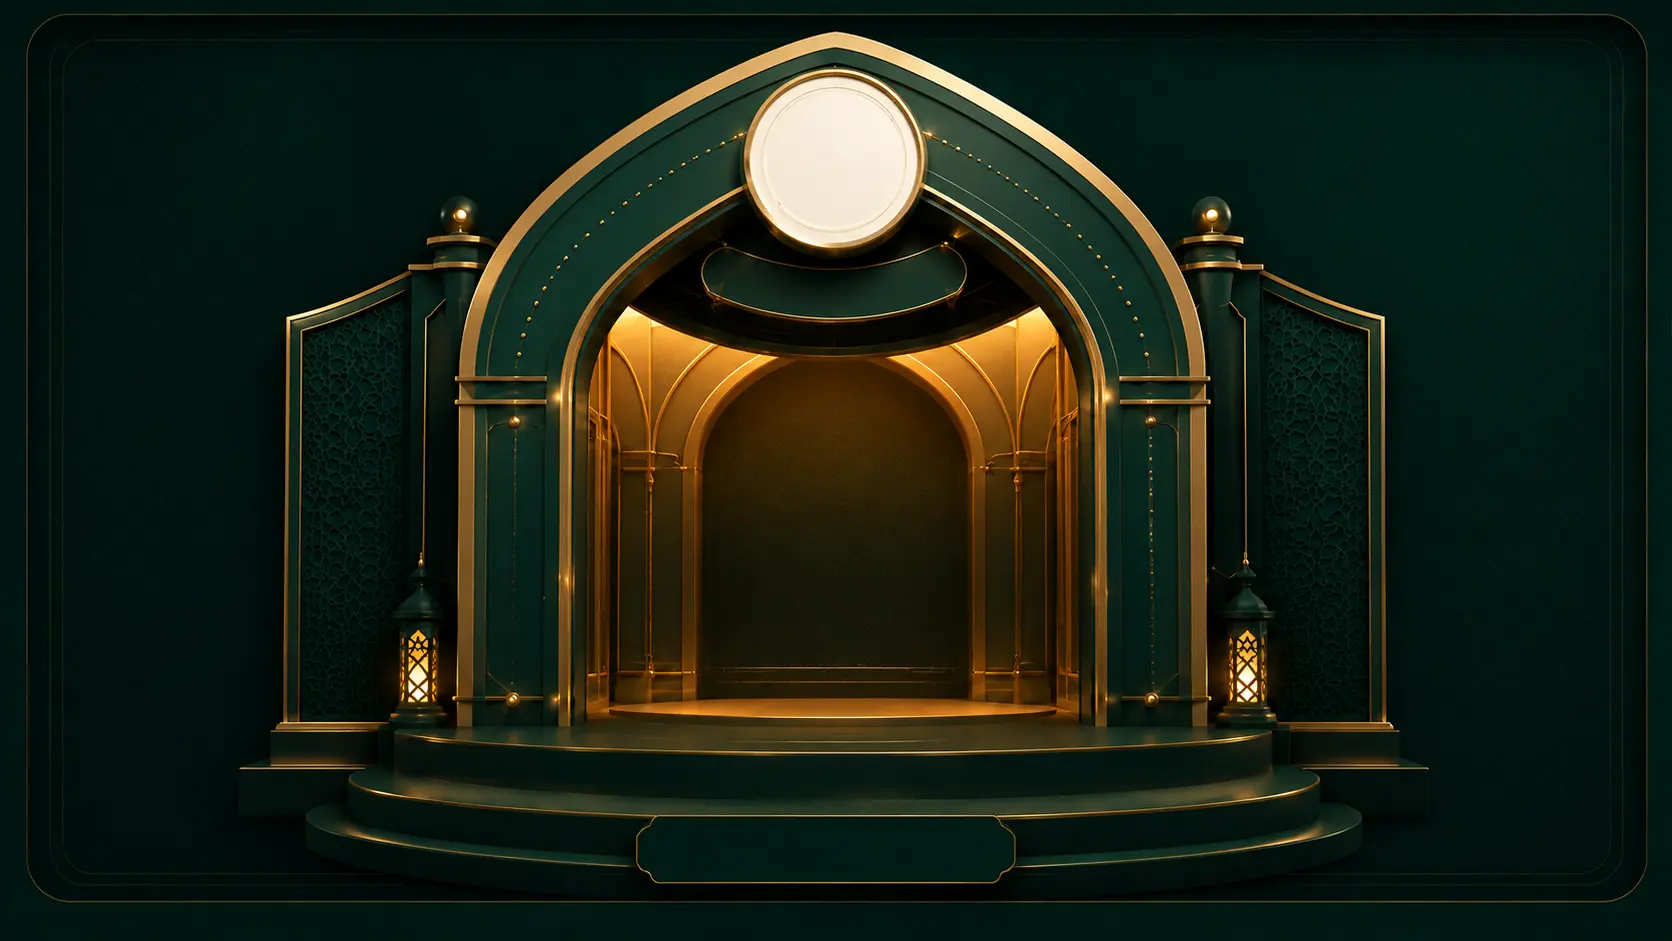
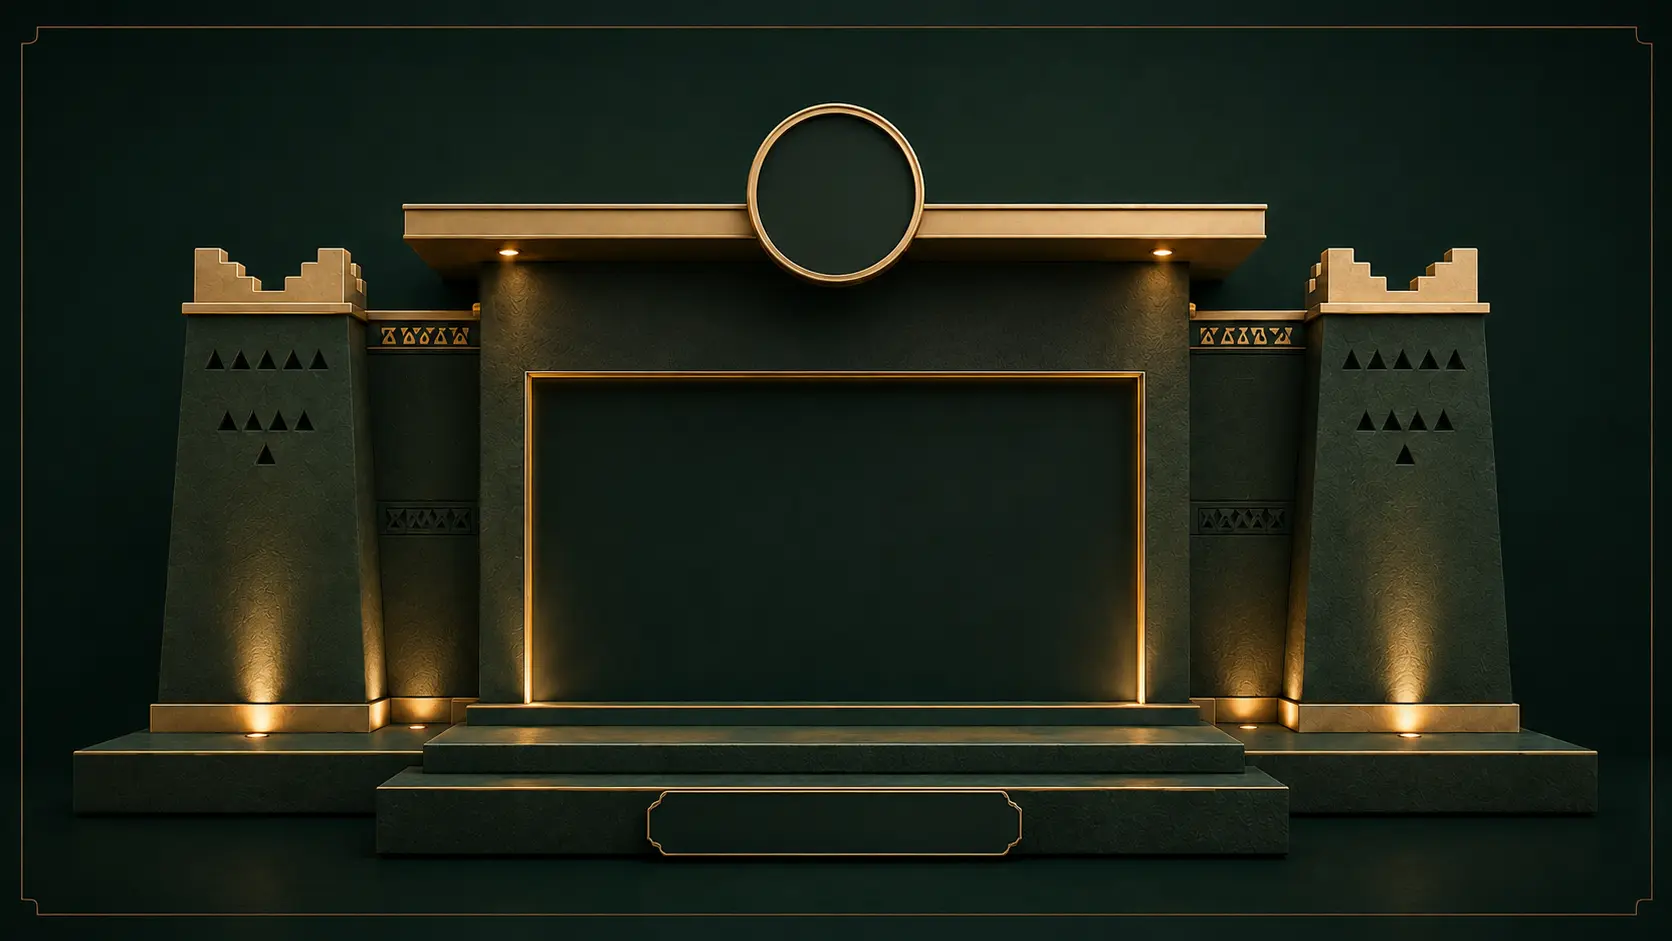
feat: apply responsive Najdi pavilion hero

diff --git a/src/components/dashboard/heritage-portal-3d.css b/src/components/dashboard/heritage-portal-3d.css
@@ -2,6 +2,12 @@
   --portal-x: 0px;
   --portal-y: 0px;
   --portal-light-x: 50%;
+  --pavilion-logo-top: 9.8%;
+  --pavilion-logo-size: 10.8%;
+  --pavilion-greeting-top: 31.2%;
+  --pavilion-identity-top: 52.2%;
+  --pavilion-message-bottom: 20.1%;
+  --pavilion-plaque-bottom: 5.25%;
   position: relative;
   isolation: isolate;
   display: block;
@@ -54,7 +60,7 @@
 
 .pavilion-reference-ambient {
   position: absolute;
-  inset: 24% 30% 19%;
+  inset: 28% 31% 18%;
   border-radius: 45%;
   background:
     radial-gradient(
@@ -64,15 +70,15 @@
       transparent 69%
     );
   mix-blend-mode: screen;
-  opacity: 0.78;
+  opacity: 0.54;
   animation: pavilion-reference-glow 5.8s ease-in-out infinite;
 }
 
 .pavilion-reference-beam {
   position: absolute;
-  top: 24%;
-  width: 13%;
-  height: 53%;
+  top: 30%;
+  width: 9%;
+  height: 46%;
   background: linear-gradient(
     178deg,
     rgba(255, 224, 156, 0.2),
@@ -81,18 +87,18 @@
   );
   filter: blur(8px);
   mix-blend-mode: screen;
-  opacity: 0.42;
+  opacity: 0.3;
   animation: pavilion-reference-lantern 4.6s ease-in-out infinite alternate;
 }
 
 .pavilion-reference-beam-right {
-  right: 31%;
-  transform: rotate(-7deg);
+  right: 18%;
+  transform: rotate(-4deg);
 }
 
 .pavilion-reference-beam-left {
-  left: 31%;
-  transform: rotate(7deg);
+  left: 18%;
+  transform: rotate(4deg);
   animation-delay: -2.3s;
 }
 
@@ -130,13 +136,13 @@
 }
 
 .pavilion-reference-logo {
-  top: 5.5%;
+  top: var(--pavilion-logo-top);
   left: 50%;
   display: grid;
-  width: 12.3%;
+  width: var(--pavilion-logo-size);
   aspect-ratio: 1;
   place-items: center;
-  padding: 0.72%;
+  padding: 0.62%;
   overflow: hidden;
   border-radius: 50%;
   color: #0b4a3b;
@@ -156,9 +162,9 @@
 }
 
 .pavilion-reference-greeting {
-  top: 26.2%;
-  right: 34%;
-  left: 34%;
+  top: var(--pavilion-greeting-top);
+  right: 35%;
+  left: 35%;
   margin: 0;
   overflow: hidden;
   color: #f0c66f;
@@ -172,10 +178,10 @@
 }
 
 .pavilion-reference-identity {
-  top: 46.5%;
+  top: var(--pavilion-identity-top);
   left: 50%;
   display: flex;
-  width: 46%;
+  width: 44%;
   flex-direction: column;
   align-items: center;
   justify-content: center;
@@ -210,7 +216,7 @@
   -webkit-background-clip: text;
   background-clip: text;
   -webkit-text-fill-color: transparent;
-  font-size: clamp(26px, 4.5vw, 74px);
+  font-size: clamp(26px, 4.25vw, 72px);
   font-weight: 950;
   letter-spacing: -0.045em;
   line-height: 1.08;
@@ -225,7 +231,7 @@
 
 .pavilion-reference-message {
   right: 28%;
-  bottom: 22.5%;
+  bottom: var(--pavilion-message-bottom);
   left: 28%;
   display: -webkit-box;
   margin: 0;
@@ -251,7 +257,7 @@
 }
 
 .pavilion-reference-plaque {
-  bottom: 7.1%;
+  bottom: var(--pavilion-plaque-bottom);
   left: 50%;
   width: 22%;
   overflow: hidden;
@@ -403,25 +409,27 @@ html body .dashboard-page.max-w-6xl.mx-auto.space-y-12 > .family-services-sectio
 
 @media (max-width: 699px) {
   .heritage-pavilion-reference {
+    --pavilion-logo-top: 9.6%;
+    --pavilion-logo-size: 11%;
+    --pavilion-greeting-top: 31%;
+    --pavilion-identity-top: 52%;
+    --pavilion-message-bottom: 19.6%;
+    --pavilion-plaque-bottom: 5.15%;
     border-radius: 22px;
   }
 
   .pavilion-reference-logo {
-    top: 5.2%;
-    width: 12.8%;
-    padding: 0.8%;
+    padding: 0.65%;
   }
 
   .pavilion-reference-greeting {
-    top: 26%;
-    right: 27%;
-    left: 27%;
+    right: 29%;
+    left: 29%;
     font-size: clamp(7px, 2vw, 10.5px);
   }
 
   .pavilion-reference-identity {
-    top: 46%;
-    width: 54%;
+    width: 52%;
   }
 
   .pavilion-reference-identity span {
@@ -429,20 +437,18 @@ html body .dashboard-page.max-w-6xl.mx-auto.space-y-12 > .family-services-sectio
   }
 
   .pavilion-reference-identity strong {
-    font-size: clamp(24px, 8.6vw, 44px);
+    font-size: clamp(22px, 8vw, 42px);
     filter: drop-shadow(0 4px 0 rgba(63, 42, 12, 0.82))
       drop-shadow(0 9px 9px rgba(0, 0, 0, 0.65));
   }
 
   .pavilion-reference-message {
-    right: 20%;
-    bottom: 21.5%;
-    left: 20%;
+    right: 18%;
+    left: 18%;
     font-size: clamp(7px, 2.1vw, 10.5px);
   }
 
   .pavilion-reference-plaque {
-    bottom: 7.1%;
     width: 23%;
     font-size: clamp(7px, 2vw, 10px);
   }
@@ -644,7 +650,7 @@ html body .desktop-portal-stage {
   html body .desktop-portal-stage
     > .desktop-portal-model.heritage-pavilion-reference
     .pavilion-reference-logo {
-    width: 21.86cqh;
-    padding: 1.28cqh;
+    width: 19.2cqh;
+    padding: 1.1cqh;
   }
 }
